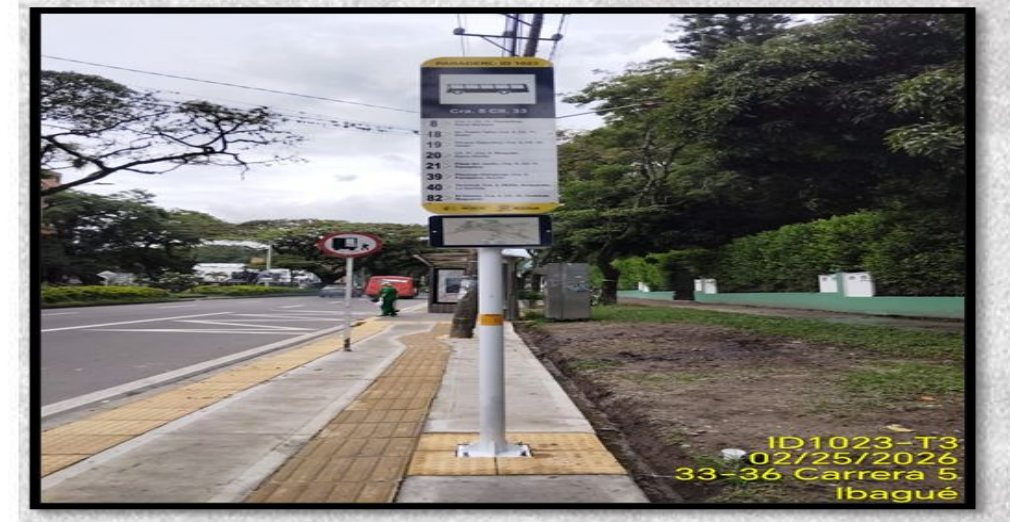
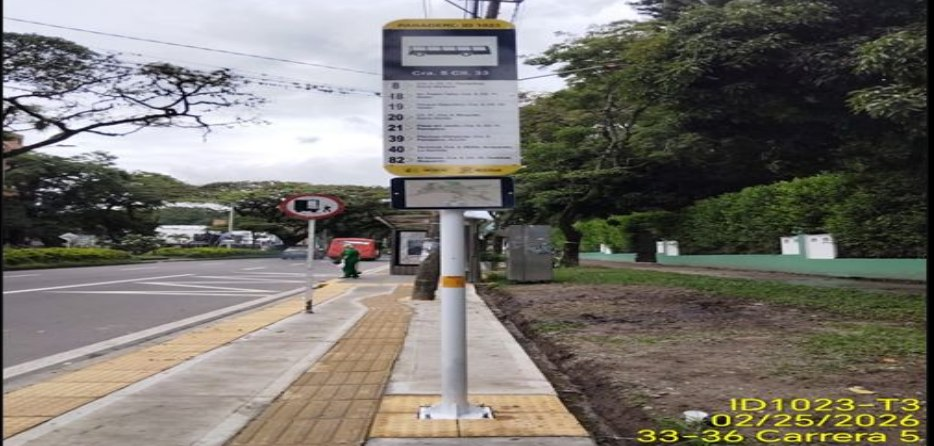
Correcciones en Paraderos Tipo III: orden de pestaña, gauges separados, consistencia y ajustes de contenido
- Pestaña reubicada junto a Carrera Quinta (antes de Av. Ambalá)
- El círculo único 'Terminado 100% físico · 95% financiero' se separa en dos gauges: Montaje físico y Financiero
- Corrige inconsistencia: 'instalación en sitio 96%' contradecía el estado 'Terminado'; ahora se presenta como 100% con nota aclaratoria de que las 44 señales restantes se completaron antes del cierre del contrato
- Simplifica la ficha técnica de tipologías de señal (menos jerga técnica) y añade animación de paradero con bus en el espacio libre
- Corrige bug de la animación del vehículo que invadía el texto (se limita con clip-path)
- Retira la oración sobre categoría/horario/velocidad del PMT
- Recursos financieros: se añade tarjeta propia con el valor del contrato de interventoría (.119,9 M)
- Vinculación de mano de obra: se simplifica a solo la lista de cuotas mínimas, se retira la tarjeta de gestión con la comunidad
- Imagen de 'Importancia de los paraderos': recorte más ajustado (sin el marco/fondo de la diapositiva), tamaño reducido y acompañada de una animación de bus
- Cronograma: la nota se reduce a la duración total del contrato

diff --git a/index.html b/index.html
@@ -256,6 +256,10 @@ footer{background:var(--navy-deep); color:#B9C4E6; padding:26px 0; font-size:13p
       <svg class="ic" viewBox="0 0 24 24" fill="none" stroke="currentColor" stroke-width="2"><path d="M3 18h18M5 18l2-9h10l2 9M9 9V6h6v3"/></svg>
       Carrera Quinta <span class="badge">Terminado</span>
     </button>
+    <button class="tab" data-page="page-paraderos">
+      <svg class="ic" viewBox="0 0 24 24" fill="none" stroke="currentColor" stroke-width="2"><path d="M12 21s7-6.7 7-12a7 7 0 1 0-14 0c0 5.3 7 12 7 12z"/><circle cx="12" cy="9" r="2.5"/></svg>
+      Paraderos Tipo III <span class="badge">Terminado</span>
+    </button>
     <button class="tab" data-page="page-ambala">
       <svg class="ic" viewBox="0 0 24 24" fill="none" stroke="currentColor" stroke-width="2"><path d="M3 18h18M5 18l2-9h10l2 9M9 9V6h6v3"/></svg>
       Av. Ambalá <span class="badge">En obra</span>
@@ -263,10 +267,6 @@ footer{background:var(--navy-deep); color:#B9C4E6; padding:26px 0; font-size:13p
     <button class="tab" data-page="page-semaforos">
       <svg class="ic" viewBox="0 0 24 24" fill="none" stroke="currentColor" stroke-width="2"><rect x="8" y="2" width="8" height="20" rx="3"/><circle cx="12" cy="6.5" r="1.4" fill="currentColor" stroke="none"/><circle cx="12" cy="12" r="1.4" fill="currentColor" stroke="none"/><circle cx="12" cy="17.5" r="1.4" fill="currentColor" stroke="none"/></svg>
       Semaforización Fase I <span class="badge">En obra</span>
-    </button>
-    <button class="tab" data-page="page-paraderos">
-      <svg class="ic" viewBox="0 0 24 24" fill="none" stroke="currentColor" stroke-width="2"><path d="M12 21s7-6.7 7-12a7 7 0 1 0-14 0c0 5.3 7 12 7 12z"/><circle cx="12" cy="9" r="2.5"/></svg>
-      Paraderos Tipo III <span class="badge">Terminado</span>
     </button>
     <button class="tab locked" title="Pendiente de información">
       <svg class="ic" viewBox="0 0 24 24" fill="none" stroke="currentColor" stroke-width="2"><path d="M4 19V5m16 14V5M4 12h16M8 5v14M16 5v14"/></svg>
@@ -1086,11 +1086,25 @@ footer{background:var(--navy-deep); color:#B9C4E6; padding:26px 0; font-size:13p
       </div>
     </div>
     <div class="gauge-card">
-      <div class="gauge-wrap">
-        <canvas id="gaugeParaderos"></canvas>
-        <div class="gauge-center"><div class="pct" style="font-size:26px;color:var(--green)">Terminado</div><div class="cap">100% físico · 95% financiero</div></div>
+      <div style="display:flex;gap:20px;justify-content:center">
+        <div style="text-align:center">
+          <div class="gauge-wrap" style="width:120px;height:120px">
+            <canvas id="gaugeParaderosFisico"></canvas>
+            <div class="gauge-center"><div class="pct" style="font-size:20px;color:var(--green)">100%</div></div>
+          </div>
+          <div style="font-size:12.5px;font-weight:800;color:var(--ink);margin-top:8px">Montaje físico</div>
+          <div style="font-size:11px;color:var(--muted)">Completado</div>
+        </div>
+        <div style="text-align:center">
+          <div class="gauge-wrap" style="width:120px;height:120px">
+            <canvas id="gaugeParaderosFinanciero"></canvas>
+            <div class="gauge-center"><div class="pct" style="font-size:20px;color:var(--green)">95%</div></div>
+          </div>
+          <div style="font-size:12.5px;font-weight:800;color:var(--ink);margin-top:8px">Financiero</div>
+          <div style="font-size:11px;color:var(--muted)">En liquidación</div>
+        </div>
       </div>
-      <div class="gauge-legend">
+      <div class="gauge-legend" style="margin-top:16px">
         <span><i style="background:var(--green)"></i> Ejecutado</span>
       </div>
     </div>
@@ -1107,8 +1121,8 @@ footer{background:var(--navy-deep); color:#B9C4E6; padding:26px 0; font-size:13p
     </div>
 
     <div class="cards g3" style="margin-bottom:20px">
-      <div class="card kpi"><div class="accent" style="background:var(--navy)"></div><h4>Señales suministradas</h4><div class="big" style="font-size:24px">1.150<span class="unit"> / 1.150</span></div><div class="foot">100% · cumplimiento de cantidades contractuales</div></div>
-      <div class="card kpi"><div class="accent" style="background:var(--royal)"></div><h4>Señales instaladas en sitio</h4><div class="big" style="font-size:24px">1.106<span class="unit"> / 1.150</span></div><div class="foot">96% · las 44 restantes fueron suministradas</div></div>
+      <div class="card kpi"><div class="accent" style="background:var(--navy)"></div><h4>Señales instaladas</h4><div class="big" style="font-size:24px">1.150<span class="unit"> / 1.150</span></div><div class="foot">100% · 1.106 instaladas durante la ejecución; las 44 restantes se completaron antes del cierre del contrato</div></div>
+      <div class="card kpi"><div class="accent" style="background:var(--royal)"></div><h4>Tipologías de señal</h4><div class="big" style="font-size:24px">889<span class="unit"> + 261</span></div><div class="foot">Tipo 1 (1-5 rutas) + Tipo 2 (6-14 rutas)</div></div>
       <div class="card kpi"><div class="accent" style="background:var(--gold)"></div><h4>Andenes (cantidad contratada)</h4><div class="big" style="font-size:24px">8.940<span class="unit"> m²</span></div><div class="foot">Concreto 3000 PSI · espesor 10 cm</div></div>
     </div>
 
@@ -1116,22 +1130,25 @@ footer{background:var(--navy-deep); color:#B9C4E6; padding:26px 0; font-size:13p
       <div class="card" style="display:flex;flex-direction:column">
         <h4>Avance por componente</h4>
         <div class="progress-row"><div class="top"><span class="name">Fabricación y suministro de señalización</span><span class="figs"><b>100%</b> · 1.150/1.150</span></div><div class="bar blue"><span style="width:100%"></span></div></div>
-        <div class="progress-row"><div class="top"><span class="name">Instalación en sitio</span><span class="figs"><b>96%</b> · 1.106/1.150</span></div><div class="bar"><span style="width:96%"></span></div></div>
+        <div class="progress-row"><div class="top"><span class="name">Instalación en sitio</span><span class="figs"><b>100%</b> · 1.150/1.150</span></div><div class="bar blue"><span style="width:100%"></span></div></div>
         <div class="progress-row"><div class="top"><span class="name">Obras civiles de andenes y bordillos</span><span class="figs"><b>100%</b> cumplimiento contractual</span></div><div class="bar blue"><span style="width:100%"></span></div></div>
         <p class="map-note">Proyecto en proceso de liquidación, con 100% de ejecución según las actividades, cantidades y obligaciones contempladas en el contrato.</p>
-        <div style="margin-top:auto;padding-top:18px;display:flex;align-items:center;gap:18px;flex-wrap:wrap">
-          <svg viewBox="0 0 160 110" style="width:130px;height:auto;flex:0 0 auto;overflow:visible">
+        <div style="margin-top:auto;padding-top:18px;display:flex;align-items:center;gap:18px;flex-wrap:wrap;overflow:hidden">
+          <svg viewBox="0 0 160 110" style="width:130px;height:auto;flex:0 0 auto">
             <line x1="0" y1="96" x2="160" y2="96" stroke="var(--line)" stroke-width="3"/>
             <rect x="72" y="30" width="6" height="66" fill="#9aa3af"/>
             <rect x="52" y="10" width="46" height="26" rx="2" fill="var(--navy)"/>
             <rect x="56" y="14" width="38" height="8" rx="1" fill="var(--gold)"/>
             <rect x="56" y="24" width="24" height="4" rx="1" fill="rgba(255,255,255,.5)"/>
-            <g>
-              <animateTransform attributeName="transform" type="translate" values="-140,0; 200,0" dur="5s" repeatCount="indefinite" calcMode="linear"/>
-              <rect x="0" y="72" width="30" height="16" rx="3" fill="var(--red)"/>
-              <rect x="4" y="64" width="16" height="10" rx="2" fill="#8a1414"/>
-              <circle cx="6" cy="90" r="5" fill="#2b2b2b"/>
-              <circle cx="24" cy="90" r="5" fill="#2b2b2b"/>
+            <clipPath id="roadClipParaderos"><rect x="0" y="0" width="160" height="110"/></clipPath>
+            <g clip-path="url(#roadClipParaderos)">
+              <g>
+                <animateTransform attributeName="transform" type="translate" values="-40,0; 190,0; -40,0" dur="6s" repeatCount="indefinite" calcMode="linear"/>
+                <rect x="0" y="72" width="30" height="16" rx="3" fill="var(--red)"/>
+                <rect x="4" y="64" width="16" height="10" rx="2" fill="#8a1414"/>
+                <circle cx="6" cy="90" r="5" fill="#2b2b2b"/>
+                <circle cx="24" cy="90" r="5" fill="#2b2b2b"/>
+              </g>
             </g>
             <circle cx="72" cy="96" r="2.4" fill="var(--green)">
               <animate attributeName="opacity" values="0;1;0" dur="2.4s" repeatCount="indefinite"/>
@@ -1143,12 +1160,34 @@ footer{background:var(--navy-deep); color:#B9C4E6; padding:26px 0; font-size:13p
           </div>
         </div>
       </div>
-      <div class="card">
-        <h4>Tipologías de señal instaladas</h4>
-        <div class="progress-row"><div class="top"><span class="name">Tipo 1 · de 1 a 5 rutas</span><span class="figs">889 unidades · marco 120 cm</span></div></div>
-        <div class="progress-row"><div class="top"><span class="name">Tipo 2 · de 6 a 14 rutas</span><span class="figs">261 unidades · marco 150 cm</span></div></div>
-        <p class="map-note">Estructura tubular galvanizada Ø3" cal.14 sobre pedestal en concreto (0,60×0,60×0,50 m), lámina retrorreflectiva tipo IV o superior (vida útil certificada ≥10 años), información de rutas actualizable en vinilo con protección antigrafiti, y módulo braille a 120 cm del piso. Vida útil del conjunto: 15 años como mínimo.</p>
-        <p class="map-note" style="margin-top:10px"><b style="color:var(--ink)">Cobertura:</b> las 13 comunas de Ibagué. <b style="color:var(--ink)">Corredores priorizados:</b> Av. Ambalá, Carrera Quinta, Av. Ferrocarril, Av. Guabinal, Av. Mirolindo y Av. Pedro Tafur.</p>
+      <div class="card" style="display:flex;flex-direction:column">
+        <h4>Tipologías de señal</h4>
+        <div class="progress-row"><div class="top"><span class="name">Tipo 1 · de 1 a 5 rutas</span><span class="figs">889 unidades</span></div></div>
+        <div class="progress-row"><div class="top"><span class="name">Tipo 2 · de 6 a 14 rutas</span><span class="figs">261 unidades</span></div></div>
+        <p class="map-note">Estructura metálica sobre pedestal en concreto, con módulo braille y lámina reflectiva certificada. Vida útil mínima: 15 años.</p>
+        <p class="map-note" style="margin-top:10px"><b style="color:var(--ink)">Cobertura:</b> las 13 comunas de Ibagué, en corredores como Av. Ambalá, Carrera Quinta, Av. Ferrocarril y Av. Guabinal.</p>
+        <div style="margin-top:auto;padding-top:14px;display:flex;justify-content:center">
+          <svg viewBox="0 0 140 130" style="width:120px;height:auto;overflow:visible">
+            <line x1="0" y1="118" x2="140" y2="118" stroke="var(--line)" stroke-width="3"/>
+            <rect x="64" y="46" width="6" height="72" fill="#9aa3af"/>
+            <rect x="44" y="8" width="46" height="34" rx="2" fill="var(--navy)"/>
+            <rect x="48" y="12" width="38" height="12" rx="1" fill="var(--gold)"/>
+            <rect x="48" y="27" width="38" height="10" rx="1" fill="#fff" opacity=".9"/>
+            <rect x="50" y="46" width="6" height="18" rx="1" fill="#c9cdd3"/>
+            <clipPath id="busClipParaderos"><rect x="0" y="0" width="140" height="130"/></clipPath>
+            <g clip-path="url(#busClipParaderos)">
+              <g>
+                <animateTransform attributeName="transform" type="translate" values="-46,0; 100,0; -46,0" dur="5s" repeatCount="indefinite" calcMode="linear"/>
+                <rect x="0" y="92" width="44" height="24" rx="5" fill="var(--royal)"/>
+                <rect x="5" y="97" width="10" height="9" rx="1" fill="#fff" opacity=".92"/>
+                <rect x="18" y="97" width="10" height="9" rx="1" fill="#fff" opacity=".92"/>
+                <rect x="31" y="97" width="9" height="9" rx="1" fill="#fff" opacity=".92"/>
+                <circle cx="10" cy="118" r="5" fill="var(--navy)"/>
+                <circle cx="34" cy="118" r="5" fill="var(--navy)"/>
+              </g>
+            </g>
+          </svg>
+        </div>
       </div>
     </div>
   </div>
@@ -1190,7 +1229,6 @@ footer{background:var(--navy-deep); color:#B9C4E6; padding:26px 0; font-size:13p
       <div class="card kpi"><div class="accent" style="background:var(--gold)"></div><h4>Plan de Manejo de Tránsito</h4><div class="big" style="font-size:20px">Categoría I</div><div class="foot">Interferencias mínimas · sin cierres totales ni desvíos</div></div>
     </div>
     <p class="map-note">Total: 17 programas en 5 componentes. En la matriz de impactos, el efecto positivo más alto identificado fue el cambio en las dinámicas de uso del transporte público (muy importante); los impactos negativos más relevantes correspondieron al manejo y disposición de residuos de demolición y de residuos peligrosos, mitigados mediante gestión de escombros en escombrera autorizada por Cortolima.</p>
-    <p class="map-note" style="margin-top:10px">El PMT clasificó la obra como Categoría I (interferencias mínimas, área de influencia de 100 m), con horario de trabajo de 7:00 a.m. a 5:00 p.m. y velocidad restringida a 30 km/h en la zona de obra.</p>
   </div>
 </section>
 
@@ -1204,12 +1242,13 @@ footer{background:var(--navy-deep); color:#B9C4E6; padding:26px 0; font-size:13p
       <span class="mini-pill">Valores en COP</span>
     </div>
 
-    <div class="cards g3" style="margin-bottom:20px">
-      <div class="card kpi"><div class="accent" style="background:var(--pending)"></div><h4>Presupuesto oficial estimado</h4><div class="big" style="font-size:24px">$9.119,0<span class="unit"> M</span></div><div class="foot">Techo del proceso licitatorio, antes de la oferta</div></div>
-      <div class="card kpi"><div class="accent" style="background:var(--navy)"></div><h4>Valor adjudicado (contrato de obra)</h4><div class="big" style="font-size:24px">$8.221,6<span class="unit"> M</span></div><div class="foot">Contrato de Obra N.° 037 · sin adiciones</div></div>
-      <div class="card kpi"><div class="accent" style="background:var(--green)"></div><h4>Avance financiero</h4><div class="big" style="font-size:24px">95<span class="unit"> %</span></div><div class="foot">Sobre el valor del contrato de obra</div></div>
+    <div class="cards g4" style="margin-bottom:20px">
+      <div class="card kpi"><div class="accent" style="background:var(--pending)"></div><h4>Presupuesto oficial estimado</h4><div class="big" style="font-size:22px">$9.119,0<span class="unit"> M</span></div><div class="foot">Techo del proceso licitatorio</div></div>
+      <div class="card kpi"><div class="accent" style="background:var(--navy)"></div><h4>Valor adjudicado (obra)</h4><div class="big" style="font-size:22px">$8.221,6<span class="unit"> M</span></div><div class="foot">Contrato de Obra N.° 037</div></div>
+      <div class="card kpi"><div class="accent" style="background:var(--royal)"></div><h4>Contrato de interventoría</h4><div class="big" style="font-size:22px">$1.119,9<span class="unit"> M</span></div><div class="foot">N.° 038 · 2024 · Velnec S.A.</div></div>
+      <div class="card kpi"><div class="accent" style="background:var(--green)"></div><h4>Avance financiero</h4><div class="big" style="font-size:22px">95<span class="unit"> %</span></div><div class="foot">Sobre el contrato de obra</div></div>
     </div>
-    <p class="map-note" style="margin-bottom:20px">La diferencia entre el presupuesto oficial estimado ($9.119,0 M) y el valor adjudicado ($8.221,6 M) corresponde al ahorro obtenido en el proceso de licitación pública, no a un sobrecosto. Adicionalmente, el contrato de interventoría (N.° 038 · 2024, Velnec S.A.) tiene un valor de $1.119,9 M, para un valor total de proyecto (obra + interventoría) de $9.341,4 M.</p>
+    <p class="map-note" style="margin-bottom:20px">La diferencia entre el presupuesto oficial estimado ($9.119,0 M) y el valor adjudicado ($8.221,6 M) corresponde al ahorro obtenido en el proceso de licitación pública, no a un sobrecosto. Sumando obra ($8.221,6 M) e interventoría ($1.119,9 M), el valor total del proyecto es de $9.341,4 M.</p>
 
     <div class="cards g2">
       <div class="card">
@@ -1270,7 +1309,7 @@ footer{background:var(--navy-deep); color:#B9C4E6; padding:26px 0; font-size:13p
           <div class="gantt-track"><div class="gantt-fill f1" style="left:5%; width:95%">299 días calendario ✓</div></div>
         </div>
       </div>
-      <p class="map-note">Plazo contractual inicial: 210 días calendario. El proyecto finalizó el 28 de febrero de 2026 (299 días desde el acta de inicio), dando cumplimiento a las actividades, cantidades y obligaciones contempladas, y se encuentra actualmente en proceso de liquidación.</p>
+      <p class="map-note">Duración total: 299 días calendario (7-may-2025 → 28-feb-2026).</p>
     </div>
   </div>
 </section>
@@ -1284,24 +1323,13 @@ footer{background:var(--navy-deep); color:#B9C4E6; padding:26px 0; font-size:13p
       <div class="spacer"></div>
       <span class="mini-pill">Obligaciones contractuales</span>
     </div>
-    <div class="cards g2">
-      <div class="card">
-        <h4>Cuotas mínimas de vinculación laboral</h4>
-        <div class="progress-row"><div class="top"><span class="name">Mano de obra no calificada de la región</span><span class="figs">Mínimo 50%</span></div></div>
-        <div class="progress-row"><div class="top"><span class="name">Mujeres (del total de mano de obra)</span><span class="figs">Mínimo 10%</span></div></div>
-        <div class="progress-row"><div class="top"><span class="name">Madres cabeza de hogar del área de influencia</span><span class="figs">Mínimo 5% de las mujeres vinculadas</span></div></div>
-        <div class="progress-row"><div class="top"><span class="name">Reserva de puestos para mujeres y grupos minoritarios</span><span class="figs">10% (incluye comunidad LGBTIQ+)</span></div></div>
-        <div class="progress-row"><div class="top"><span class="name">Personal colombiano</span><span class="figs">Mínimo 40%</span></div></div>
-        <p class="map-note">El incumplimiento de las cuotas de mano de obra local o de vinculación de mujeres causa multas de 3 SMMLV por cada día de incumplimiento.</p>
-      </div>
-      <div class="card">
-        <h4>Gestión con la comunidad</h4>
-        <div class="progress-row"><div class="top"><span class="name">Actas de vecindad</span><span class="figs">Levantadas antes de intervenir cada punto</span></div></div>
-        <div class="progress-row"><div class="top"><span class="name">Servicio de Atención al Usuario (SAU)</span><span class="figs">Disponible durante toda la obra</span></div></div>
-        <div class="progress-row"><div class="top"><span class="name">Atención de PQRS</span><span class="figs">Dentro de los términos de la Ley 1755 de 2015</span></div></div>
-        <div class="progress-row"><div class="top"><span class="name">Capacitación y sensibilización</span><span class="figs">Cultura ciudadana, seguridad vial y prevención de acoso callejero</span></div></div>
-        <p class="map-note">Cumplimiento del Decreto 392 de 2018 en materia de vinculación de personas con discapacidad, e igualdad salarial entre hombres y mujeres en un mismo cargo.</p>
-      </div>
+    <div class="card">
+      <h4>Cuotas mínimas de vinculación laboral</h4>
+      <div class="progress-row"><div class="top"><span class="name">Mano de obra no calificada de la región</span><span class="figs">Mínimo 50%</span></div></div>
+      <div class="progress-row"><div class="top"><span class="name">Mujeres (del total de mano de obra)</span><span class="figs">Mínimo 10%</span></div></div>
+      <div class="progress-row"><div class="top"><span class="name">Madres cabeza de hogar del área de influencia</span><span class="figs">Mínimo 5% de las mujeres vinculadas</span></div></div>
+      <div class="progress-row"><div class="top"><span class="name">Reserva de puestos para mujeres y grupos minoritarios</span><span class="figs">10%</span></div></div>
+      <div class="progress-row"><div class="top"><span class="name">Personal colombiano</span><span class="figs">Mínimo 40%</span></div></div>
     </div>
   </div>
 </section>
@@ -1315,12 +1343,37 @@ footer{background:var(--navy-deep); color:#B9C4E6; padding:26px 0; font-size:13p
       <div class="spacer"></div>
     </div>
     <div class="card">
-      <img src="img/paradero-tipo3-instalado.jpg" alt="Paradero Tipo III instalado en Carrera 5 con Calle 33, Ibagué" style="width:100%;max-height:360px;object-fit:cover;border-radius:14px;margin-bottom:18px">
-      <div style="display:flex;gap:24px;flex-wrap:wrap">
-        <p style="flex:1;min-width:260px;font-size:14.5px;line-height:1.7;color:var(--ink);margin:0">Antes de este proyecto, el Sistema Público Colectivo de Ibagué carecía de puntos de parada ordenados: los usuarios abordaban y descendían en cualquier lugar de la vía, generando maniobras inseguras y afectando el flujo vehicular. Los 1.150 paraderos Tipo III definen puntos fijos de ascenso y descenso, adaptados a las condiciones de personas con movilidad reducida o discapacidad, en los corredores por donde transita el sistema.</p>
-        <p style="flex:1;min-width:260px;font-size:14.5px;line-height:1.7;color:var(--ink);margin:0">Según el estudio de referencia del proyecto (Findeter, 2018), organizar las paradas de esta manera reduce en 78% los tiempos de espera de los usuarios, aumenta en 71% la velocidad de los corredores y reduce en 21% la longitud de las colas de buses en vía, en beneficio de cerca de 541.000 habitantes y 225.000 viajes diarios en la ciudad.</p>
+      <div style="display:flex;gap:24px;flex-wrap:wrap;align-items:flex-start">
+        <div style="flex:0 0 300px;max-width:100%">
+          <img src="img/paradero-tipo3-instalado.jpg" alt="Paradero Tipo III instalado en Carrera 5 con Calle 33, Ibagué" style="width:100%;height:200px;object-fit:cover;border-radius:14px;display:block">
+          <p style="font-size:11.5px;color:var(--muted);margin:8px 0 0;line-height:1.4">Foto: paradero Tipo III en Carrera 5 con Calle 33, Ibagué — registro fotográfico oficial, Dirección Operativa SETP Ibagué S.A.S.</p>
+          <div style="margin-top:16px;display:flex;justify-content:center">
+            <svg viewBox="0 0 140 130" style="width:110px;height:auto;overflow:visible">
+              <line x1="0" y1="118" x2="140" y2="118" stroke="var(--line)" stroke-width="3"/>
+              <rect x="64" y="46" width="6" height="72" fill="#9aa3af"/>
+              <rect x="44" y="8" width="46" height="34" rx="2" fill="var(--navy)"/>
+              <rect x="48" y="12" width="38" height="12" rx="1" fill="var(--gold)"/>
+              <rect x="48" y="27" width="38" height="10" rx="1" fill="#fff" opacity=".9"/>
+              <clipPath id="busClipImportancia"><rect x="0" y="0" width="140" height="130"/></clipPath>
+              <g clip-path="url(#busClipImportancia)">
+                <g>
+                  <animateTransform attributeName="transform" type="translate" values="-46,0; 100,0; -46,0" dur="5.5s" repeatCount="indefinite" calcMode="linear"/>
+                  <rect x="0" y="92" width="44" height="24" rx="5" fill="var(--royal)"/>
+                  <rect x="5" y="97" width="10" height="9" rx="1" fill="#fff" opacity=".92"/>
+                  <rect x="18" y="97" width="10" height="9" rx="1" fill="#fff" opacity=".92"/>
+                  <rect x="31" y="97" width="9" height="9" rx="1" fill="#fff" opacity=".92"/>
+                  <circle cx="10" cy="118" r="5" fill="var(--navy)"/>
+                  <circle cx="34" cy="118" r="5" fill="var(--navy)"/>
+                </g>
+              </g>
+            </svg>
+          </div>
+        </div>
+        <div style="flex:1;min-width:260px;display:flex;flex-direction:column;gap:14px">
+          <p style="font-size:14.5px;line-height:1.7;color:var(--ink);margin:0">Antes de este proyecto, el Sistema Público Colectivo de Ibagué carecía de puntos de parada ordenados: los usuarios abordaban y descendían en cualquier lugar de la vía, generando maniobras inseguras y afectando el flujo vehicular. Los 1.150 paraderos Tipo III definen puntos fijos de ascenso y descenso, adaptados a las condiciones de personas con movilidad reducida o discapacidad, en los corredores por donde transita el sistema.</p>
+          <p style="font-size:14.5px;line-height:1.7;color:var(--ink);margin:0">Según el estudio de referencia del proyecto (Findeter, 2018), organizar las paradas de esta manera reduce en 78% los tiempos de espera de los usuarios, aumenta en 71% la velocidad de los corredores y reduce en 21% la longitud de las colas de buses en vía, en beneficio de cerca de 541.000 habitantes y 225.000 viajes diarios en la ciudad.</p>
+        </div>
       </div>
-      <p style="font-size:12px;color:var(--muted);margin:14px 0 0">Foto: paradero Tipo III instalado en Carrera 5 con Calle 33, Ibagué — registro fotográfico oficial, Dirección Operativa SETP Ibagué S.A.S.</p>
     </div>
   </div>
 </section>
@@ -1526,10 +1579,17 @@ if (document.getElementById('chartPieSemaforos')) {
 })();
 
 /* ==== Paraderos Tipo III ==== */
-if (document.getElementById('gaugeParaderos')) {
-  new Chart(document.getElementById('gaugeParaderos'),{
+if (document.getElementById('gaugeParaderosFisico')) {
+  new Chart(document.getElementById('gaugeParaderosFisico'),{
     type:'doughnut',
     data:{datasets:[{data:[100,0],backgroundColor:[GREEN,'#EAEEF7'],borderWidth:0}]},
+    options:{cutout:'78%',responsive:true,maintainAspectRatio:false,plugins:{legend:{display:false},tooltip:{enabled:false}}}
+  });
+}
+if (document.getElementById('gaugeParaderosFinanciero')) {
+  new Chart(document.getElementById('gaugeParaderosFinanciero'),{
+    type:'doughnut',
+    data:{datasets:[{data:[95,5],backgroundColor:[GREEN,'#EAEEF7'],borderWidth:0}]},
     options:{cutout:'78%',responsive:true,maintainAspectRatio:false,plugins:{legend:{display:false},tooltip:{enabled:false}}}
   });
 }
